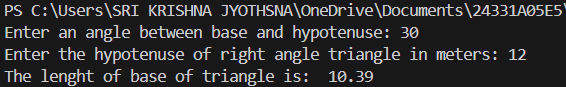
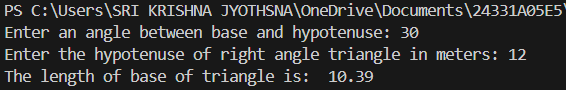
Add files via upload

diff --git a/Week1/math/sin.py b/Week1/math/sin.py
@@ -2,4 +2,4 @@ import math
 angle = int(input("Enter an angle between base and hypotenuse: "))
 hypotenuse = int(input("Enter the hypotenuse of right angle triangle(in meters): "))
 height = hypotenuse * math.sin(math.radians(angle))
-print("The lenght of height of triangle is: ",round(height,2))
+print("The length of height of triangle is: ",round(height,2))

diff --git a/Week1/math/cos.py b/Week1/math/cos.py
@@ -2,4 +2,4 @@ import math
 angle = int(input("Enter an angle between base and hypotenuse: "))
 hypotenuse = int(input("Enter the hypotenuse of right angle triangle in meters: "))
 base = hypotenuse * math.cos(math.radians(angle))
-print("The lenght of base of triangle is: ",round(base,2))
+print("The length of base of triangle is: ",round(base,2))
